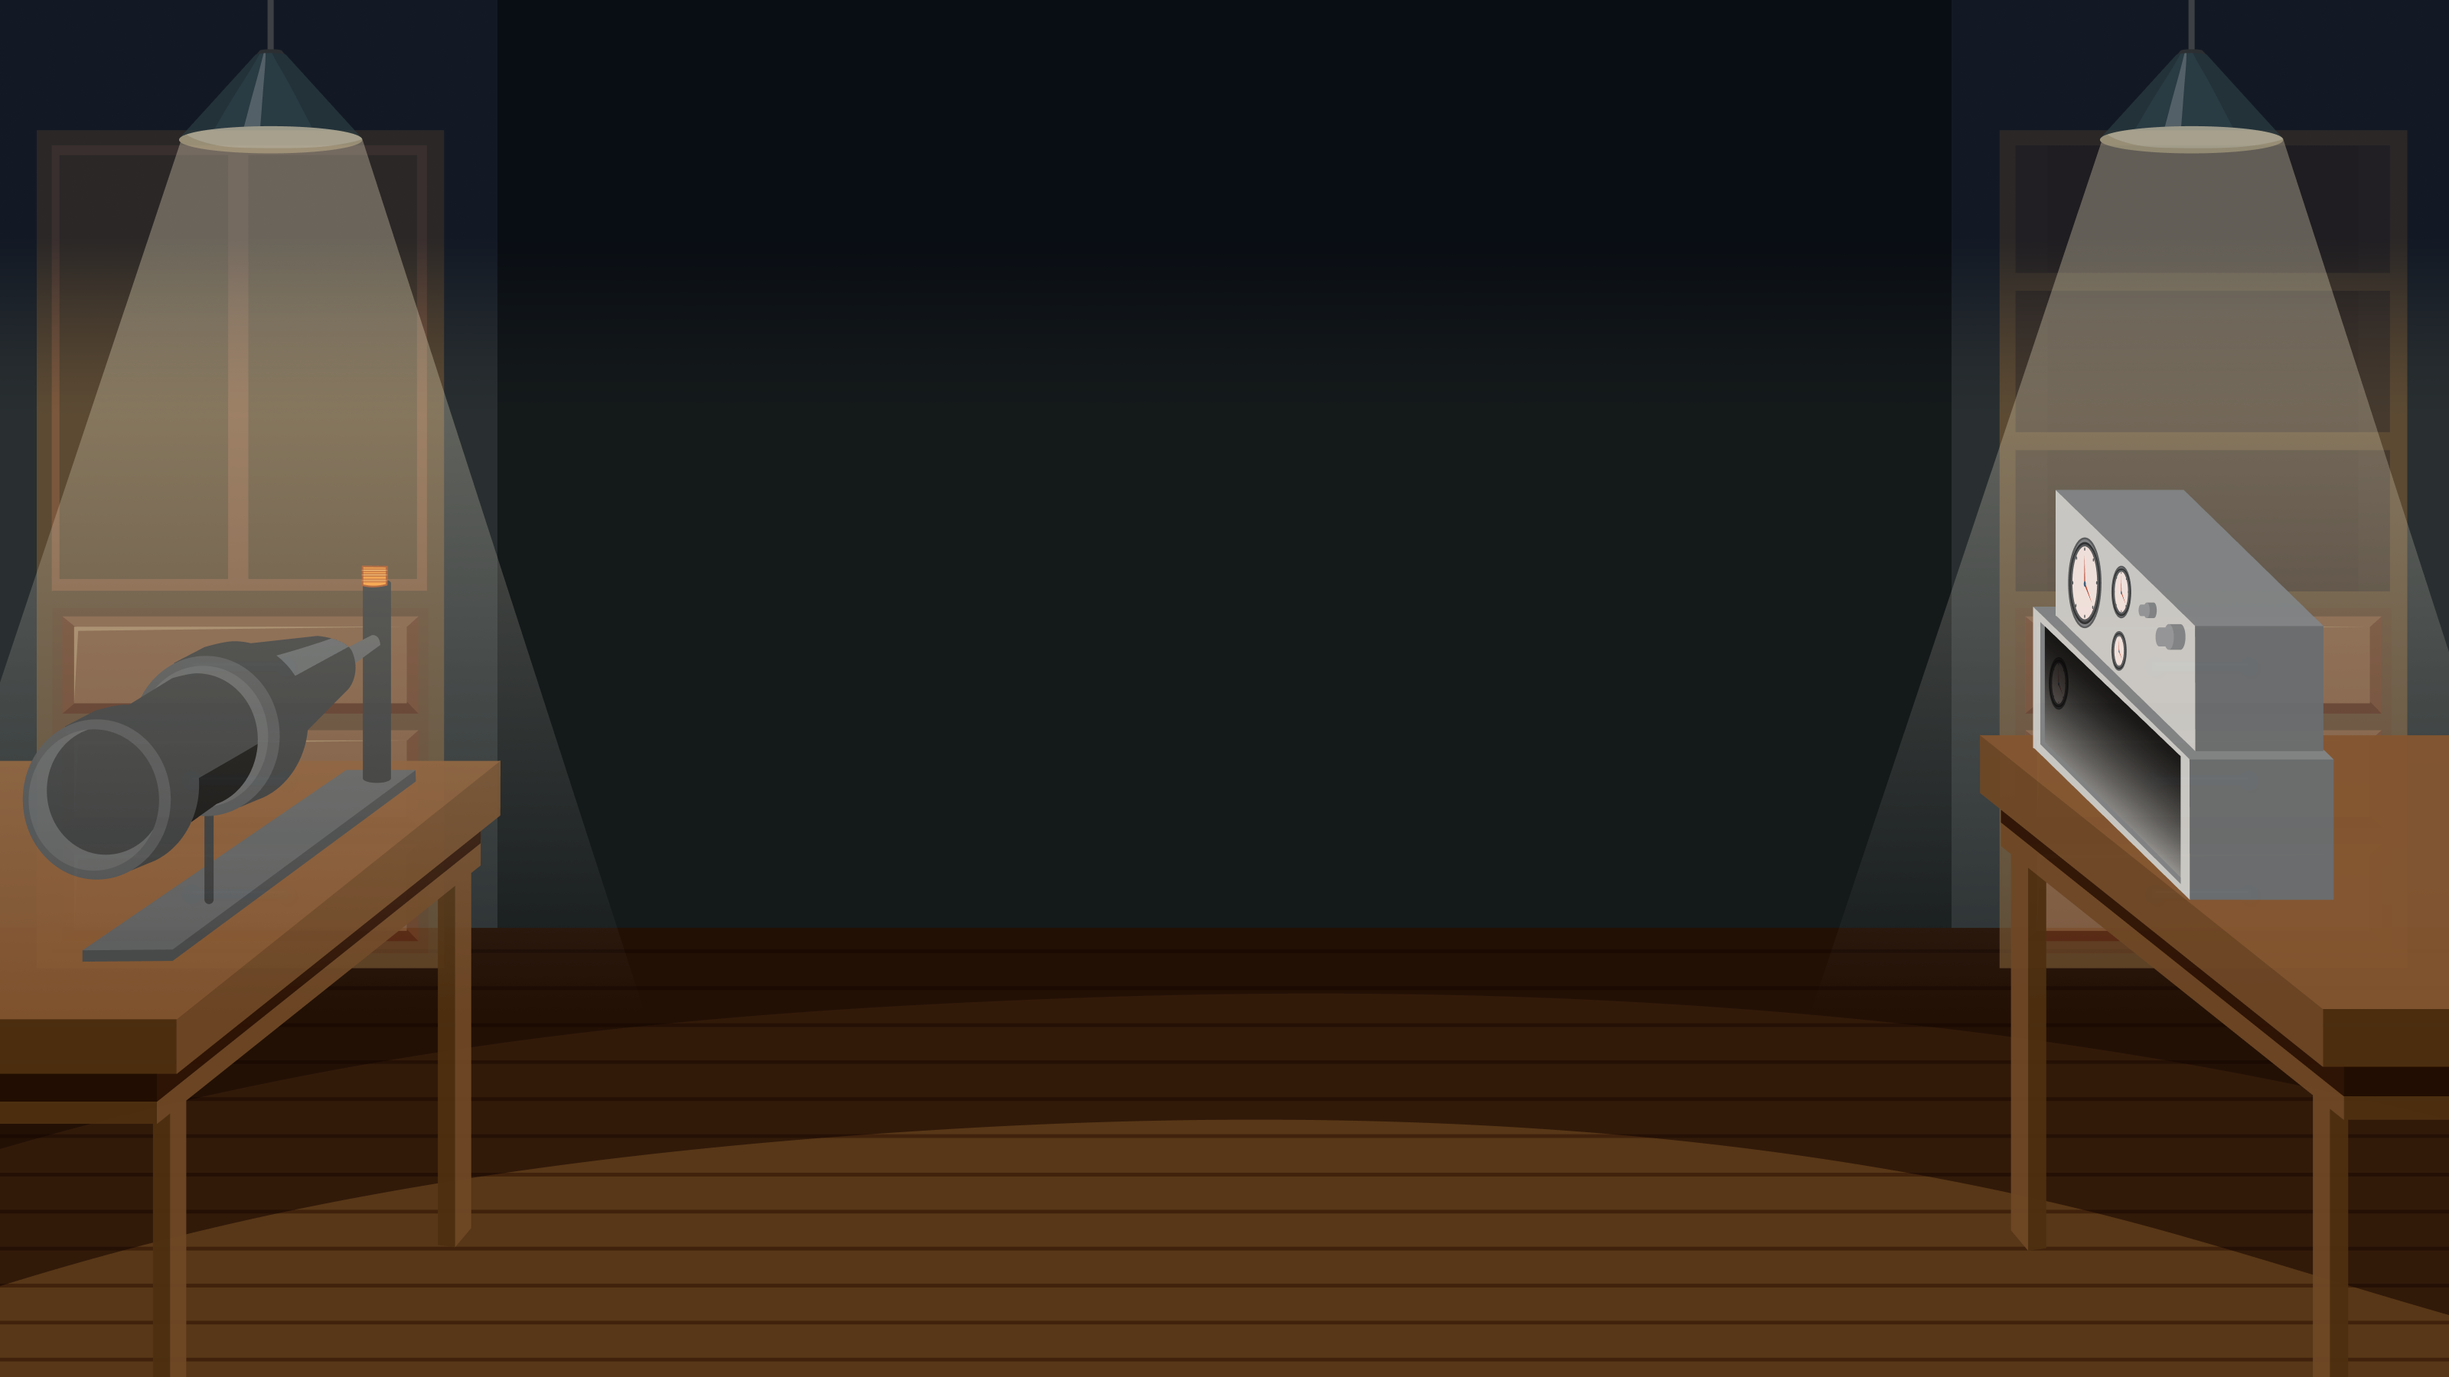
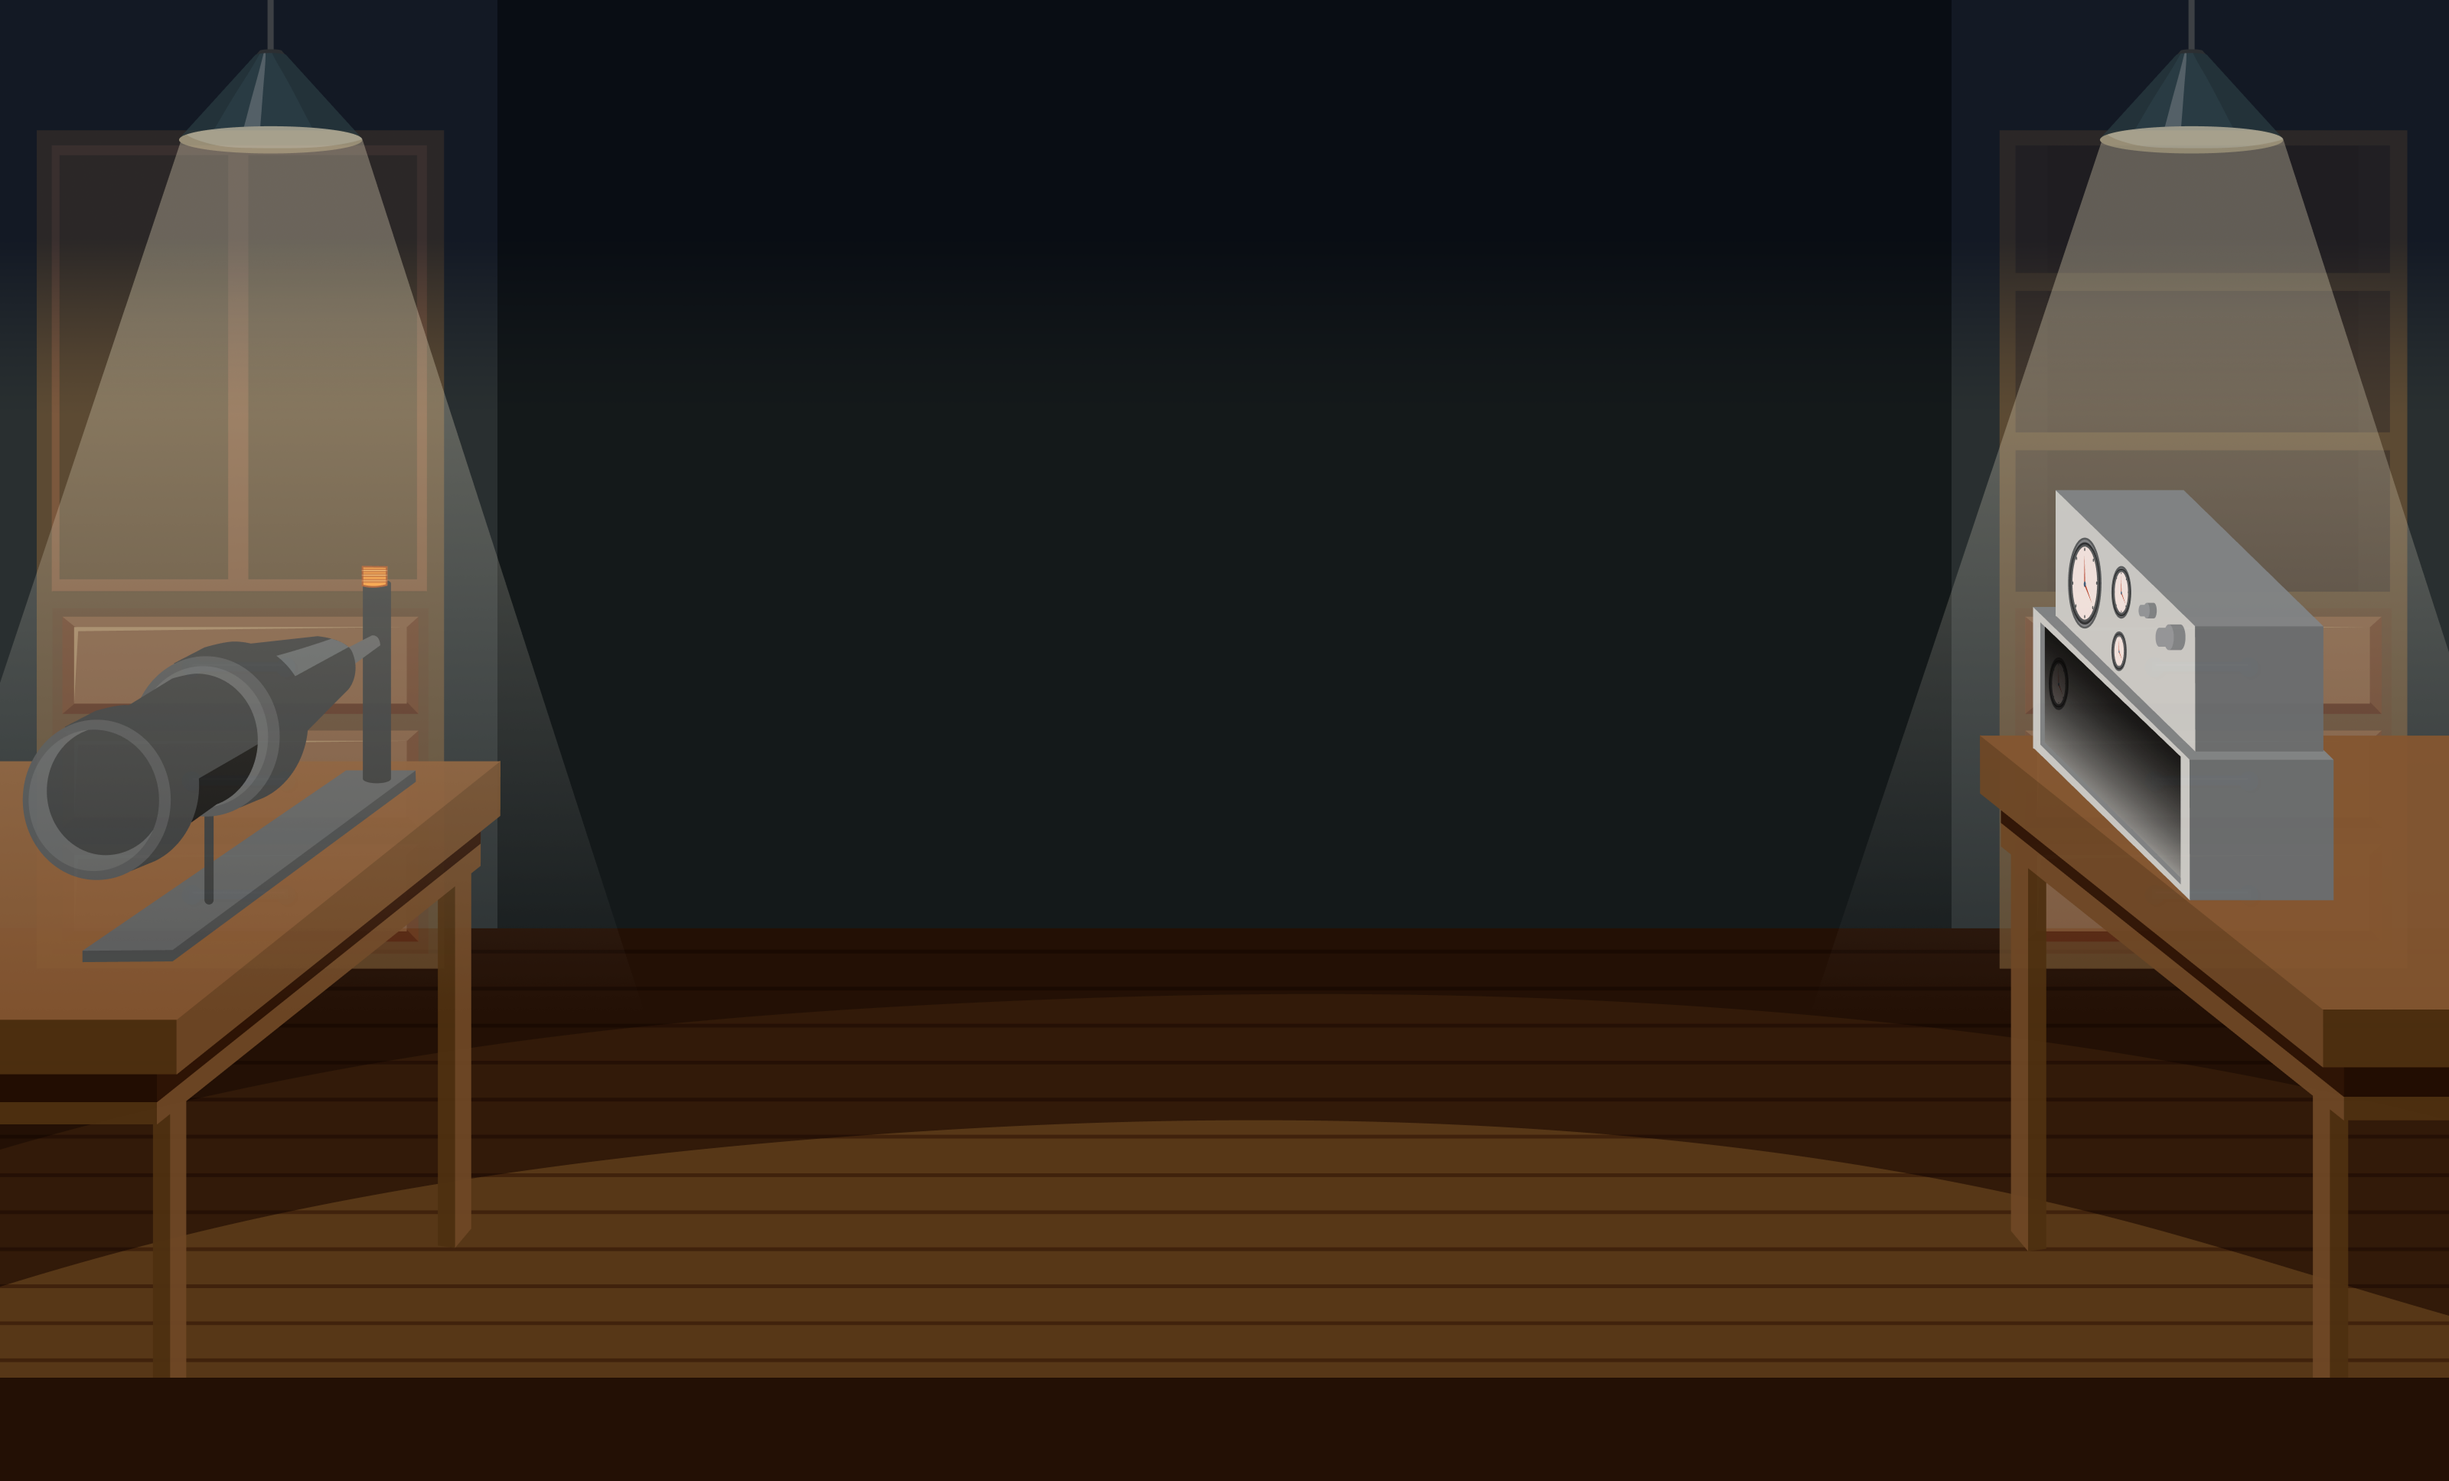
Fixing homepage
tambah logo sponsor, background poster, timeline

diff --git a/resources/views/welcome.blade.php b/resources/views/welcome.blade.php
@@ -1,7 +1,7 @@
 @extends("layouts.app")
 <link href="https://fonts.googleapis.com/css2?family=Poppins:wght@400;600;700&display=swap" rel="stylesheet">
 @section("content")
-<section class="relative min-h-screen bg-cover bg-center font-poppins" style="background-image: url('{{ asset('images/Background_Industrial_Games.png') }}');">
+<section class="py-16 relative min-h-screen bg-cover bg-center font-poppins" style="background-image: url('{{ asset('images/Background_Industrial_Games.png') }}');">
   <div class="absolute inset-0 bg-black bg-opacity-5 flex flex-col justify-start items-center text-center pt-20 px-4 sm:px-6 md:px-8">
      <img src="{{ asset('images/Industrial_Games_Tulisan.png') }}" 
      alt="Industrial Games Title" 
@@ -25,7 +25,7 @@
   </div>
 </section>
 
-<section class="bg-[#14191A] py-16 flex justify-center items-center relative" style="background-image: url('{{ asset('images/Background_Poster.png') }}'); background-size: cover; background-position: center;">
+<section class="bg-[#14191A] py-40 flex justify-center items-center relative" style="background-image: url('{{ asset('images/Background_Poster.png') }}'); background-size: cover; background-position: center;">
     <div class="w-full max-w-md px-4 text-center">
         <img src="{{ asset('images/POSTER_IG.png') }}" alt="Industrial Games XXXIV Poster" class="mx-auto w-full h-auto shadow-lg rounded-lg">
     </div>

diff --git a/resources/views/layouts/footer.blade.php b/resources/views/layouts/footer.blade.php
@@ -38,8 +38,8 @@
         <div class="col-span-full mt-12">
             <h3 class="text-xl sm:text-2xl font-bold mb-4">SPONSORED BY :</h3>
             <div class="flex flex-wrap gap-4">
-                {{-- Tambahkan logo sponsor di sini --}}
-                {{-- <img src="{{ asset('sponsors/logo1.png') }}" class="h-10" alt="Sponsor 1"> --}}
+             <img src="{{ asset('images/Logo_Imperial.png') }}" alt="Imperial" class="w-64 h-36 pt-8">
+             <img src="{{ asset('images/Print_n_Print.png') }}" alt="PrintnPrint" class="w-48 h-48 mx-12 ">
             </div>
         </div>
     </div>
